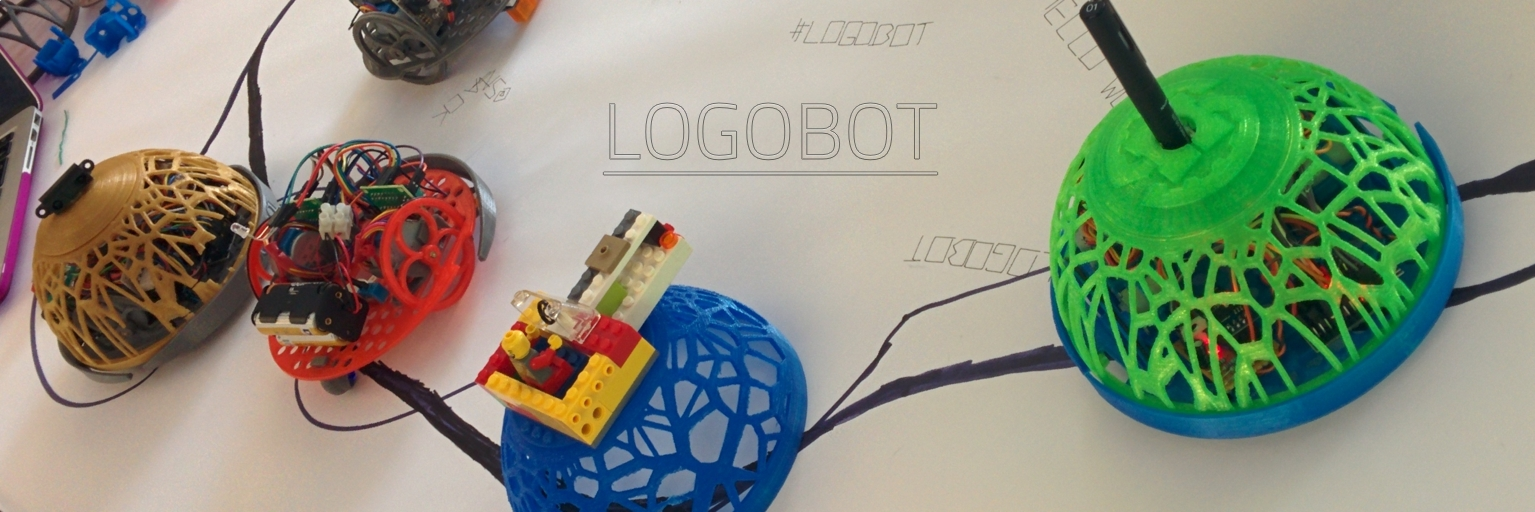
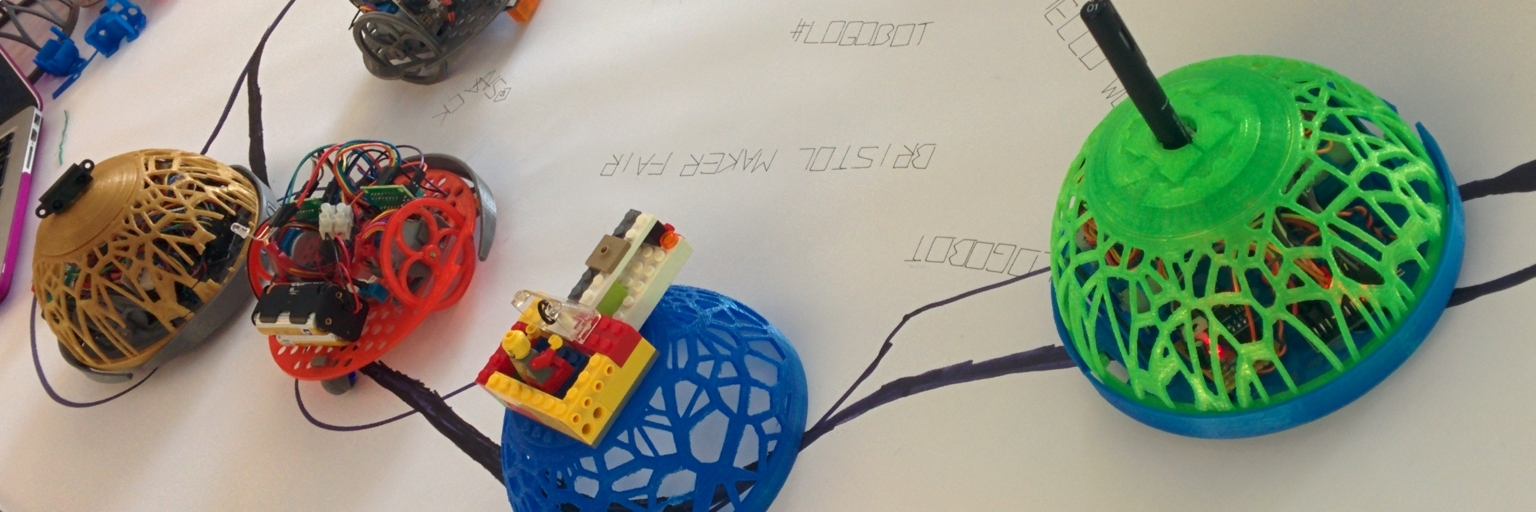
Site updated at 2015-08-23 13:07:55 UTC

Changed region(s): [[0.398, 0.1875, 0.6124, 0.3438]]

diff --git a/index.html b/index.html
@@ -112,7 +112,7 @@
     <div id="content">
       <div id="landing">
   <a href="https://github.com/snhack/snhack.github.io/wiki/LogoBot">
-    <img src="/images/layout/site_pano_6.jpg" alt="LogoBot" width=100% class="center">
+    <img src="/images/layout/logobot.jpg" alt="LogoBot" width=100% class="center">
   </a>
 
   <article>
